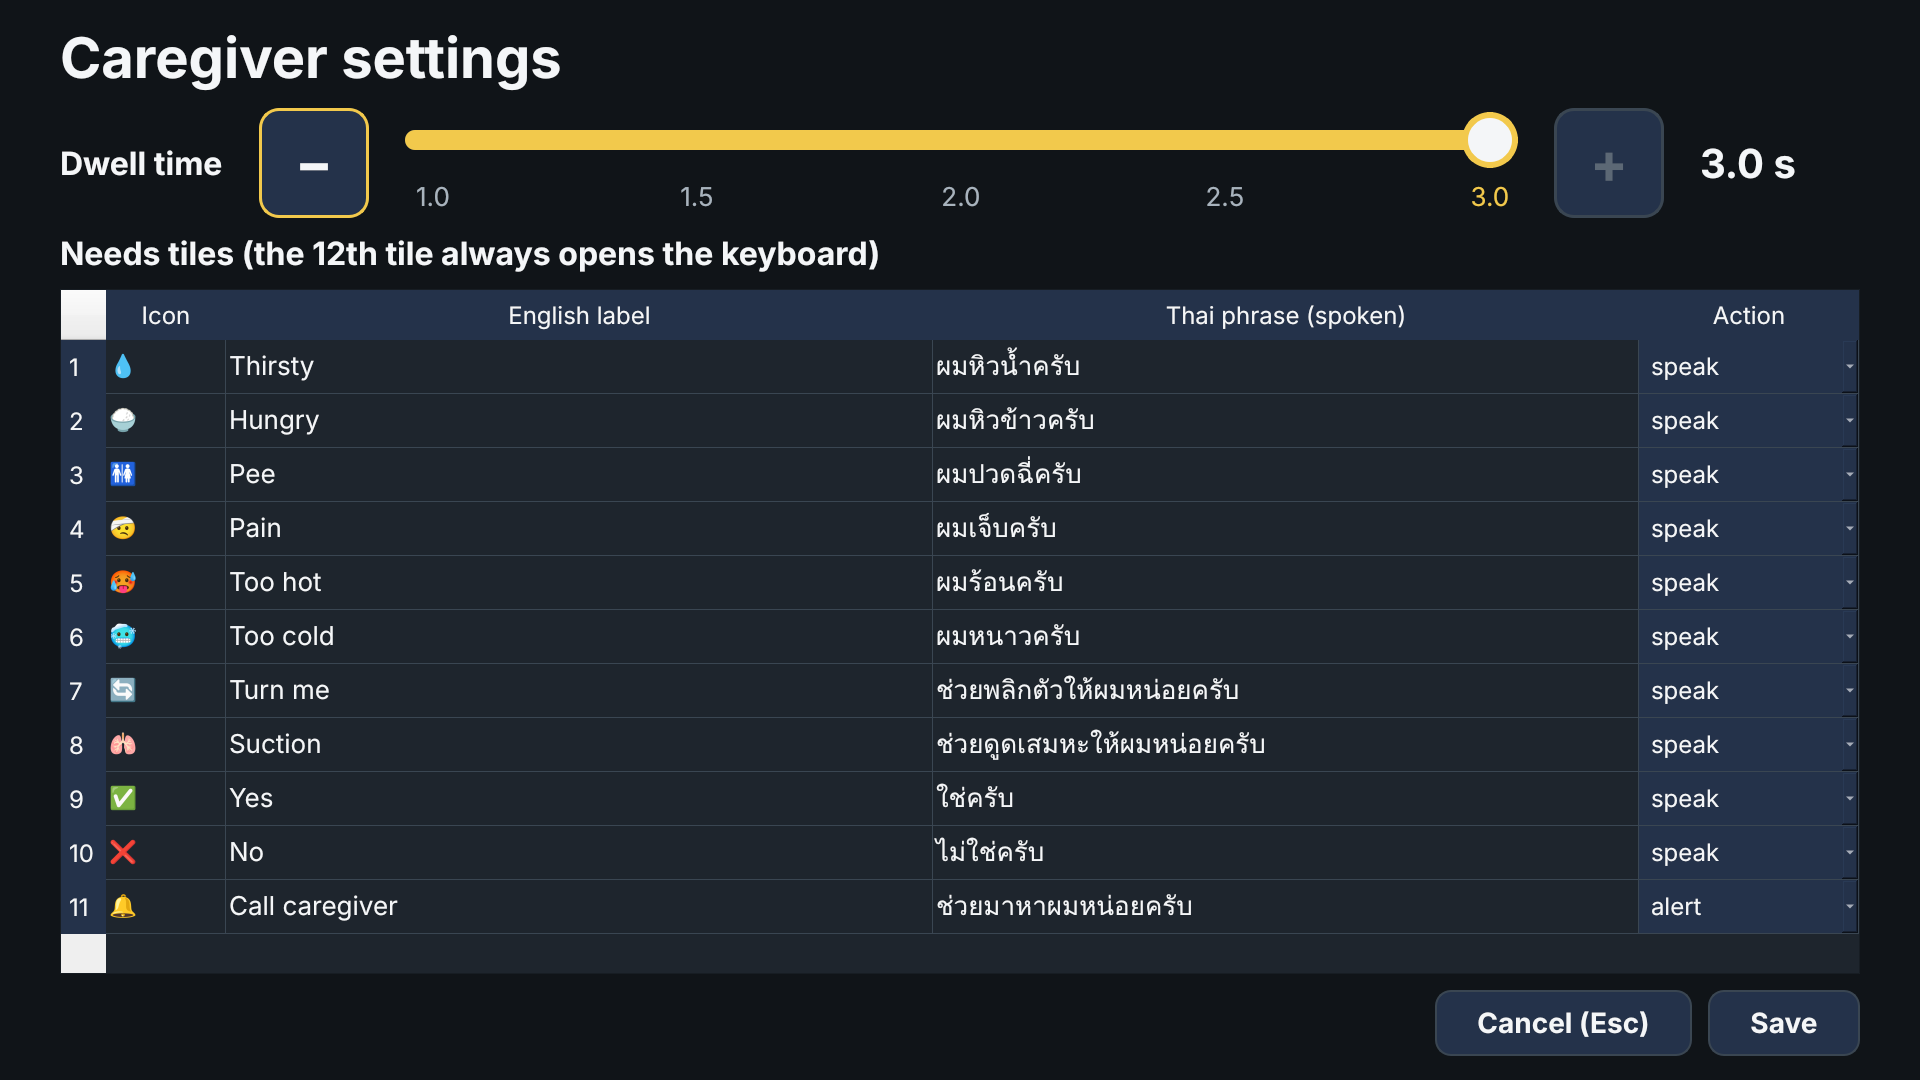
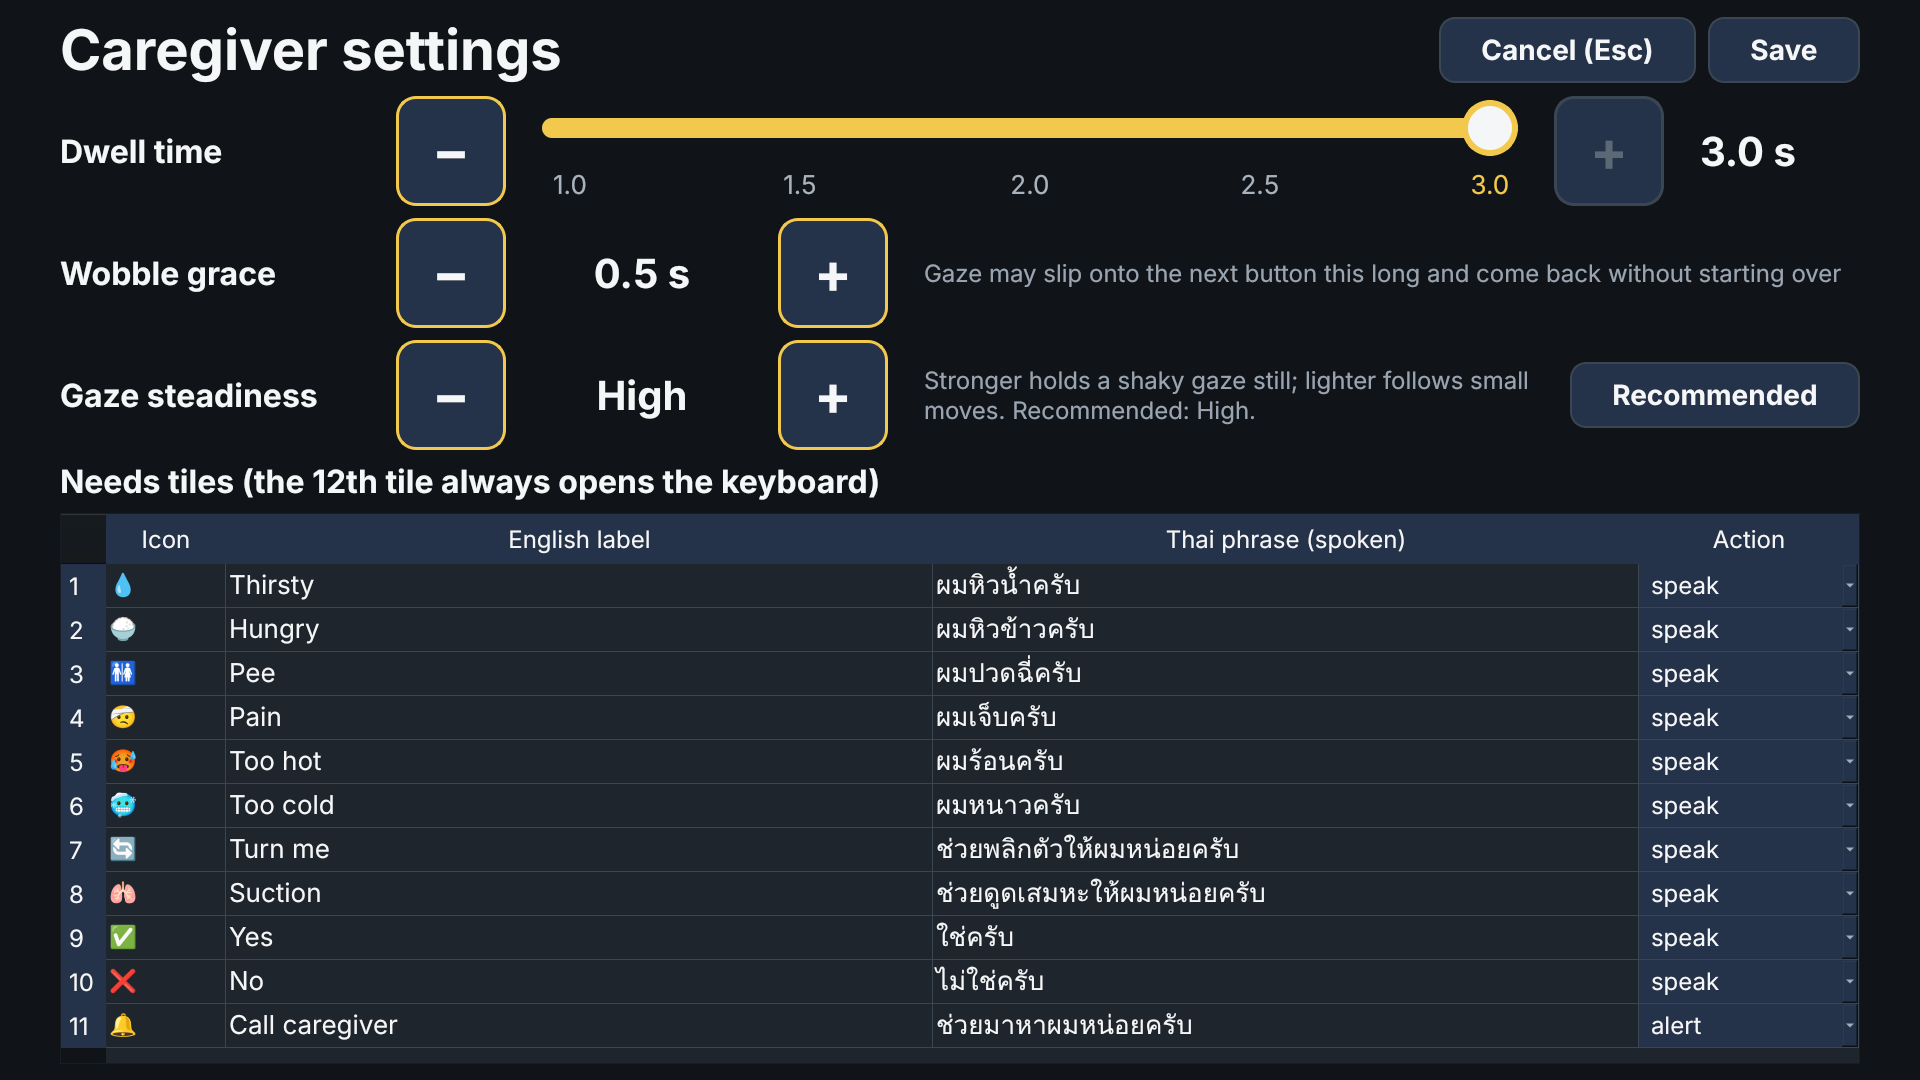
Let the caregiver set gaze steadiness on the Settings page
A Gaze steadiness row (Light to Strong) sets the fixation filter's radius
from 60 to 140 px, default High (120 px), with a Recommended button.
Save rebuilds the gaze filter so the change applies without a restart.
Cancel and Save move up beside the title so all Needs rows still fit.

Claude-Session: https://claude.ai/code/session_012QeYGAro3vcYXimiUTMWDw

diff --git a/commu_aid/ui/settings.py b/commu_aid/ui/settings.py
@@ -1,4 +1,4 @@
-"""Caregiver Settings page (F3): dwell time and the Needs tiles, saved to config.yaml."""
+"""Caregiver Settings page (F3): dwell time, gaze steadiness and the Needs tiles, saved to config.yaml."""
 
 from __future__ import annotations
 
@@ -24,11 +24,15 @@ from ..config import (
     DWELL_MIN_S,
     DWELL_STEP_S,
     NEEDS_TILE_COUNT,
+    STEADINESS_DEFAULT,
+    STEADINESS_NAMES,
+    STEADINESS_RADII_PX,
     WOBBLE_GRACE_MAX_S,
     AppConfig,
     NeedTile,
     clamp_dwell,
     clamp_wobble_grace,
+    steadiness_level,
 )
 from . import theme
 
@@ -52,6 +56,7 @@ QSlider::handle:horizontal { width: 44px; height: 44px; margin: -18px 0; border-
 
 SLIDER_HANDLE = 56  # px, QSlider::handle width plus its border above
 STEP_BUTTON = 110  # theme.MIN_TARGET
+LABEL_W = 300  # row labels share one width so the - / + buttons line up
 
 
 def _steps(seconds: float) -> int:
@@ -90,17 +95,28 @@ class SettingsPage(QWidget):
         self.setGeometry(0, 0, theme.CANVAS_W, theme.CANVAS_H)
 
         layout = QVBoxLayout(self)
-        layout.setContentsMargins(theme.MARGIN, 24, theme.MARGIN, 24)
-        layout.setSpacing(16)
+        layout.setContentsMargins(theme.MARGIN, 16, theme.MARGIN, 16)
+        layout.setSpacing(12)
 
+        # Cancel and Save share the title row, leaving room for all 11 Needs rows below the controls.
+        title_row = QHBoxLayout()
         title = QLabel("Caregiver settings")
         title.setFont(theme.font(56, bold=True))
-        layout.addWidget(title)
+        title_row.addWidget(title)
+        title_row.addStretch(1)
+        cancel = QPushButton("Cancel (Esc)")
+        cancel.clicked.connect(self.cancel)
+        save = QPushButton("Save")
+        save.clicked.connect(self.save)
+        title_row.addWidget(cancel)
+        title_row.addWidget(save)
+        layout.addLayout(title_row)
 
         dwell_row = QHBoxLayout()
         dwell_row.setSpacing(theme.GAP)
         dwell_label = QLabel("Dwell time")
         dwell_label.setFont(theme.font(32, bold=True))
+        dwell_label.setMinimumWidth(LABEL_W)
         self.dwell_value = QLabel()
         self.dwell_value.setFont(theme.font(40, bold=True))
         self.dwell_value.setMinimumWidth(160)
@@ -130,12 +146,13 @@ class SettingsPage(QWidget):
         wobble_row.setSpacing(theme.GAP)
         wobble_label = QLabel("Wobble grace")
         wobble_label.setFont(theme.font(32, bold=True))
+        wobble_label.setMinimumWidth(LABEL_W)
         self.wobble_steps = 0
         self.wobble_less = self._button("\u2212", lambda: self._set_wobble(self.wobble_steps - 1))
         self.wobble_more = self._button("+", lambda: self._set_wobble(self.wobble_steps + 1))
         self.wobble_value = QLabel()
         self.wobble_value.setFont(theme.font(40, bold=True))
-        self.wobble_value.setMinimumWidth(160)
+        self.wobble_value.setMinimumWidth(200)
         self.wobble_value.setAlignment(Qt.AlignCenter)
         wobble_hint = QLabel("Gaze may slip onto the next button this long and come back without starting over")
         wobble_hint.setFont(theme.font(24))
@@ -147,6 +164,35 @@ class SettingsPage(QWidget):
         wobble_row.addWidget(self.wobble_more)
         wobble_row.addWidget(wobble_hint, 1)
         layout.addLayout(wobble_row)
+
+        # Gaze steadiness: how far the gaze point may shake and still count as one spot
+        # (the fixation filter's radius). Five named levels instead of raw pixels.
+        steady_row = QHBoxLayout()
+        steady_row.setSpacing(theme.GAP)
+        steady_label = QLabel("Gaze steadiness")
+        steady_label.setFont(theme.font(32, bold=True))
+        steady_label.setMinimumWidth(LABEL_W)
+        self.steady_level = STEADINESS_DEFAULT
+        self.loaded_steady_level = STEADINESS_DEFAULT
+        self.steady_less = self._button("\u2212", lambda: self._set_steadiness(self.steady_level - 1))
+        self.steady_more = self._button("+", lambda: self._set_steadiness(self.steady_level + 1))
+        self.steady_value = QLabel()
+        self.steady_value.setFont(theme.font(40, bold=True))
+        self.steady_value.setMinimumWidth(200)
+        self.steady_value.setAlignment(Qt.AlignCenter)
+        self.steady_hint = QLabel()
+        self.steady_hint.setFont(theme.font(24))
+        self.steady_hint.setStyleSheet("color: #9aa5b1;")
+        self.steady_hint.setWordWrap(True)
+        self.steady_reset = QPushButton("Recommended")
+        self.steady_reset.clicked.connect(lambda: self._set_steadiness(STEADINESS_DEFAULT))
+        steady_row.addWidget(steady_label)
+        steady_row.addWidget(self.steady_less)
+        steady_row.addWidget(self.steady_value)
+        steady_row.addWidget(self.steady_more)
+        steady_row.addWidget(self.steady_hint, 1)
+        steady_row.addWidget(self.steady_reset)
+        layout.addLayout(steady_row)
 
         tiles_label = QLabel("Needs tiles (the 12th tile always opens the keyboard)")
         tiles_label.setFont(theme.font(32, bold=True))
@@ -161,23 +207,15 @@ class SettingsPage(QWidget):
         header.setSectionResizeMode(3, QHeaderView.Fixed)
         self.table.setColumnWidth(0, 120)
         self.table.setColumnWidth(3, 220)
-        self.table.verticalHeader().setDefaultSectionSize(46)  # all 11 rows fit under the two dwell rows
+        self.table.verticalHeader().setDefaultSectionSize(44)  # all 11 rows fit under the three control rows
         layout.addWidget(self.table, 1)
-
-        buttons = QHBoxLayout()
-        buttons.addStretch(1)
-        cancel = QPushButton("Cancel (Esc)")
-        cancel.clicked.connect(self.cancel)
-        save = QPushButton("Save")
-        save.clicked.connect(self.save)
-        buttons.addWidget(cancel)
-        buttons.addWidget(save)
-        layout.addLayout(buttons)
 
     def load(self) -> None:
         self.dwell_slider.setValue(_steps(self.cfg.dwell.dwell_time_s))
         self._show_dwell(self.dwell_slider.value())
         self._set_wobble(round(clamp_wobble_grace(self.cfg.dwell.wobble_grace_s) / DWELL_STEP_S))
+        self.loaded_steady_level = steadiness_level(self.cfg.gaze_filter.fixation_radius_px)
+        self._set_steadiness(self.loaded_steady_level)
         for row in range(NEEDS_TILE_COUNT):
             tile = self.cfg.needs[row] if row < len(self.cfg.needs) else NeedTile("", "")
             for col, value in enumerate((tile.icon, tile.label, tile.thai)):
@@ -190,6 +228,11 @@ class SettingsPage(QWidget):
     def save(self) -> None:
         self.cfg.dwell.dwell_time_s = clamp_dwell(self.dwell_slider.value() * DWELL_STEP_S)
         self.cfg.dwell.wobble_grace_s = clamp_wobble_grace(self.wobble_steps * DWELL_STEP_S)
+        if self.steady_level != self.loaded_steady_level:
+            # Only a change from the page writes the radius, so a hand-tuned value between levels
+            # survives a Save. Steadiness is the fixation filter's setting, so it switches to that.
+            self.cfg.gaze_filter.method = "fixation"
+            self.cfg.gaze_filter.fixation_radius_px = STEADINESS_RADII_PX[self.steady_level]
         needs = []
         for row in range(NEEDS_TILE_COUNT):
             icon, label, thai = (self._text(row, c) for c in range(3))
@@ -219,6 +262,19 @@ class SettingsPage(QWidget):
         self.wobble_value.setText(f"{seconds:.1f} s" if seconds else "Off")
         self.wobble_less.setEnabled(self.wobble_steps > 0)
         self.wobble_more.setEnabled(self.wobble_steps < top)
+
+    def _set_steadiness(self, level: int) -> None:
+        top = len(STEADINESS_RADII_PX) - 1
+        self.steady_level = max(0, min(top, level))
+        self.steady_value.setText(STEADINESS_NAMES[self.steady_level])
+        self.steady_less.setEnabled(self.steady_level > 0)
+        self.steady_more.setEnabled(self.steady_level < top)
+        self.steady_reset.setEnabled(self.steady_level != STEADINESS_DEFAULT)
+        hint = "Stronger holds a shaky gaze still; lighter follows small moves. Recommended: High."
+        if self.cfg.gaze_filter.method != "fixation" and self.steady_level == self.loaded_steady_level:
+            method = self.cfg.gaze_filter.method
+            hint = f"config.yaml uses the {method} filter; changing this switches to the steady one."
+        self.steady_hint.setText(hint)
 
     def _show_dwell(self, steps: int) -> None:
         self.dwell_value.setText(f"{steps * DWELL_STEP_S:.1f} s")

diff --git a/tests/test_app.py b/tests/test_app.py
@@ -240,6 +240,64 @@ def test_settings_wobble_grace_is_off_to_one_second(setup, tmp_path):
     assert "wobble_grace_s: 1.0" in (tmp_path / "config.yaml").read_text(encoding="utf-8")
 
 
+def test_settings_gaze_steadiness_sets_the_fixation_radius(setup, tmp_path):
+    from commu_aid.gaze.filters import FixationFilter
+
+    make = setup[0]
+    w = make()
+    w.cfg.path = tmp_path / "config.yaml"
+    w.open_settings()
+    s = w.settings
+    assert s.steady_value.text() == "High" and not s.steady_reset.isEnabled()
+    s.steady_more.click()
+    assert s.steady_value.text() == "Strong" and not s.steady_more.isEnabled()
+    for _ in range(5):
+        s.steady_less.click()
+    assert s.steady_value.text() == "Light" and not s.steady_less.isEnabled()
+    s.steady_more.click()
+    s.save()
+    assert isinstance(w.smoother, FixationFilter) and w.smoother.radius_px == 80
+    assert "fixation_radius_px: 80" in (tmp_path / "config.yaml").read_text(encoding="utf-8")
+    w.open_settings()
+    assert w.settings.steady_value.text() == "Low"
+    w.settings.steady_reset.click()
+    w.settings.save()
+    assert w.smoother.radius_px == 120
+
+
+def test_settings_keeps_a_hand_tuned_filter_unless_steadiness_changes(setup, tmp_path):
+    from commu_aid.gaze.filters import FixationFilter, OneEuroFilter
+
+    make = setup[0]
+    w = make()
+    w.cfg.path = tmp_path / "config.yaml"
+    w.cfg.gaze_filter.fixation_radius_px = 110
+    w.open_settings()
+    assert w.settings.steady_value.text() in ("Medium", "High")
+    w.settings.save()
+    assert w.cfg.gaze_filter.fixation_radius_px == 110
+
+    w.cfg.gaze_filter.method = "one_euro"
+    w.open_settings()
+    assert "one_euro" in w.settings.steady_hint.text()
+    w.settings.save()
+    assert isinstance(w.smoother, OneEuroFilter)
+    w.open_settings()
+    w.settings.steady_more.click()
+    w.settings.save()
+    assert w.cfg.gaze_filter.method == "fixation" and isinstance(w.smoother, FixationFilter)
+
+
+def test_settings_page_shows_every_needs_row(setup):
+    make = setup[0]
+    w = make()
+    w.open_settings()
+    table = w.settings.table
+    rows = sum(table.rowHeight(r) for r in range(table.rowCount()))
+    assert rows <= table.viewport().height()
+    assert not table.verticalScrollBar().isVisible()
+
+
 def test_wobble_onto_neighbour_key_keeps_progress(setup, app):
     make, clock, source, _, _ = setup
     w = make()

diff --git a/commu_aid/config.py b/commu_aid/config.py
@@ -24,6 +24,11 @@ class DwellConfig:
 
 
 GAZE_FILTER_METHODS = ("fixation", "one_euro", "average")
+# Steadiness levels on the Settings page: fixation radius for each, Light to Strong.
+# Buttons are 146 px apart, so the strongest stays below that.
+STEADINESS_RADII_PX = (60, 80, 100, 120, 140)
+STEADINESS_NAMES = ("Light", "Low", "Medium", "High", "Strong")
+STEADINESS_DEFAULT = 3  # High, 120 px
 
 
 @dataclass
@@ -181,3 +186,8 @@ def clamp_dwell(seconds: float) -> float:
 
 def clamp_wobble_grace(seconds: float) -> float:
     return max(0.0, min(WOBBLE_GRACE_MAX_S, float(seconds)))
+
+
+def steadiness_level(radius_px: float) -> int:
+    """Settings level whose fixation radius is nearest the given one."""
+    return min(range(len(STEADINESS_RADII_PX)), key=lambda i: abs(STEADINESS_RADII_PX[i] - float(radius_px)))

diff --git a/commu_aid/ui/main_window.py b/commu_aid/ui/main_window.py
@@ -423,6 +423,9 @@ class MainWindow(QGraphicsView):
     def _apply_settings(self) -> None:
         self.dwell.dwell_time_s = self.cfg.dwell.dwell_time_s
         self.dwell.wobble_grace_s = self.cfg.dwell.wobble_grace_s
+        c = self.cfg
+        # A new filter starts afresh, so the gaze point jumps straight to where the eyes are.
+        self.smoother = make_gaze_filter(c.gaze_filter, (c.display.width, c.display.height), c.dwell.blink_grace_s)
         self.needs_page.set_needs(self.cfg.needs)
         self.bar.show_message("Settings saved", note=f"Dwell time {self.cfg.dwell.dwell_time_s:.1f} s")
 

diff --git a/docs/plans/09-gaze-filter-settings.md b/docs/plans/09-gaze-filter-settings.md
@@ -1,53 +1,22 @@
-# Plan: gaze filter controls on the Settings page (item 9)
+# Gaze filter controls on the Settings page (item 9)
 
-Status: plan only, no code yet. Waiting for Ton to rank this against the other items.
+Ton wanted the caregiver to change the gaze noise filter from the Settings page (F3) instead of
+editing `config.yaml` by hand.
 
-## What Ton asked for
+## As built
 
-The current noise filter works well, but the caregiver should be able to change it from the
-Settings page (F3) instead of editing `config.yaml` by hand.
+- A **Gaze steadiness** row under Wobble grace, in the same style: big − / + buttons and the level
+  name between them, Light / Low / Medium / High / Strong. The levels set the fixation filter's
+  `fixation_radius_px` to 60 / 80 / 100 / 120 / 140 px; 140 stays under the 146 px between
+  button centres. High (120 px, today's default) is recommended, and a "Recommended" button
+  goes back to it.
+- Only the steady (fixation) filter is offered. Ton did not answer whether to show all three
+  filter types, so this follows the recommendation: one control, nothing raw for the caregiver.
+  `one_euro` and `average` still work from `config.yaml`; changing the level switches back to
+  `fixation`, and the hint says so when another filter is set.
+- A hand-tuned radius between levels (say 110 px) is kept on Save unless the level is changed.
+- Save rebuilds the filter at once, so a change needs no restart.
+- Cancel and Save moved up beside the title so all 11 Needs rows still fit at 1920x1080.
 
-## What exists today
-
-- `gaze_filter` section in `config.yaml` (PR #7): `method` is `fixation` (default), `one_euro`
-  or `average`, each with its own numbers. `fixation_radius_px` defaults to 120 and must stay
-  under 146 px (the distance between button centres).
-- `make_gaze_filter()` in `commu_aid/gaze/filters.py` builds the filter once, in
-  `MainWindow.__init__`. Saving Settings does not rebuild it, so a change today needs a restart.
-- The Settings page only has the dwell slider (big yellow slider, 110 px -/+ buttons, PR #11)
-  and the Needs tiles table.
-
-## Proposed change
-
-1. **Filter type**: three large toggle buttons in one row, same style as the dwell -/+ buttons:
-   - "Steady" = `fixation` (recommended, selected by default)
-   - "Smooth" = `one_euro`
-   - "Simple" = `average`
-2. **Steadiness**: one slider with -/+ buttons, styled like the dwell slider, with 5 steps from
-   "Light" to "Strong". Each step sets the main number of the chosen filter, so the caregiver
-   never sees raw parameters:
-   - Steady: `fixation_radius_px` 60 / 80 / 100 / 120 / 140 (120 = today's default)
-   - Smooth: `min_cutoff_hz` 2.0 / 1.0 / 0.5 / 0.3 / 0.15 (0.5 = default)
-   - Simple: `average_samples` 3 / 5 / 8 / 12 / 16 (5 = default)
-   A value from a hand-edited config snaps to the nearest step, as dwell does.
-3. **"Reset to recommended"** button: Steady, radius 120.
-4. **Apply on Save without restart**: `_apply_settings()` rebuilds `self.smoother` with
-   `make_gaze_filter()`, and the "Settings saved" note says which filter is on.
-5. **Room on the page**: the Needs table shrinks a little to fit the two new rows at 1920x1080.
-   If it gets too tight, Needs tiles move to a second Settings tab.
-
-Other numbers (`confirm_samples`, `hold_s`, `beta`, `d_cutoff_hz`) stay in `config.yaml` only.
-
-## Tests
-
-- Config round trip: each method and step survives Save and load.
-- Snapping: an off-step value loads to the nearest step; radius never goes above 140.
-- Main window: after Save, `smoother` is the new filter type with the new number.
-- Screenshot of the Settings page at 1920x1080 for Ton to check.
-
-## Questions for Ton
-
-- Are the three filter types worth showing, or only the Steadiness slider for the Steady filter?
-  (Simpler for the caregiver; recommended if the other two are never used.)
-- Would a small "try it" area on the Settings page, showing the gaze dot live, help the
-  caregiver judge a change before saving?
+The other filter numbers (`confirm_samples`, `hold_s`, the one_euro and average settings) stay in
+`config.yaml` only.

diff --git a/README.md b/README.md
@@ -23,7 +23,8 @@ in 0.5 s steps) to choose it. The app shows the English text and speaks it in Th
   turns off except one large **Resume** button at the top centre, which needs a longer look
   (4 s by default, `pause.resume_dwell_s`) and fills a ring as it counts. F4 pauses and resumes too.
 - **Settings (F3)** let the caregiver change the dwell time (1 to 3 s, in 0.5 s steps, with a large
-  slider and big − / + buttons), the wobble grace (Off, 0.5 s or 1.0 s) and the Needs tiles.
+  slider and big − / + buttons), the wobble grace (Off, 0.5 s or 1.0 s), the gaze steadiness
+  (Light to Strong, default High) and the Needs tiles. Changes apply on Save, without a restart.
 - **Wobble grace**: if the gaze slips onto a neighbouring button and comes back within 0.5 s
   (`dwell.wobble_grace_s`), the first button keeps its progress instead of starting over.
   If the gaze stays on the new button, its dwell counts from when the gaze arrived. Resume on
@@ -232,7 +233,7 @@ Caregiver keys:
 | Key | Action |
 | --- | --- |
 | F2 | Calibrate again |
-| F3 | Settings (dwell time, wobble grace, Needs tiles) |
+| F3 | Settings (dwell time, wobble grace, gaze steadiness, Needs tiles) |
 | F4 | Pause or resume |
 | Ctrl+G (Cmd+G on a Mac) | Show or hide the gaze dot |
 | F11 | Full screen on or off |
@@ -256,6 +257,9 @@ Everything is in [`config.yaml`](config.yaml):
 
 - `dwell`: dwell time, blink grace, cooldown, wobble grace.
 - `gaze_filter`: how the gaze point is steadied (see [If the gaze point is shaky](#if-the-gaze-point-is-shaky)).
+  The Settings page's Gaze steadiness levels set `fixation_radius_px` to 60, 80, 100, 120 or 140 px
+  (Light to Strong) and switch `method` to `fixation`; a value set here by hand is kept until
+  the level is changed on the page.
 - `display`: edge margins and snapping (see [If gaze misses near the screen edges](#if-gaze-misses-near-the-screen-edges)).
 - `calibration`: for example `auto_accept_max_error_px` to accept a good calibration without
   pressing Enter, `redo_point_px` to set when a calibration point is collected again, and
@@ -319,7 +323,7 @@ Tobii Pro Spark ─▶ Gaze source ─▶ Gaze filter ─▶ Targets ─▶ Dwel
 | `commu_aid/ui/gaze_dot.py` | Gaze dot overlay (Ctrl+G) |
 | `commu_aid/ui/pause_screen.py` | Rest screen with the long-dwell Resume button |
 | `commu_aid/ui/calibration.py` | Start-up calibration: position check with face outline, live gaze, result plots |
-| `commu_aid/ui/settings.py` | Caregiver settings (dwell slider in 0.5 s steps, Needs tiles) |
+| `commu_aid/ui/settings.py` | Caregiver settings (dwell slider in 0.5 s steps, wobble grace, gaze steadiness, Needs tiles) |
 | `commu_aid/predict.py` | Offline word prediction (10,000 common words, care words, learning) |
 | `commu_aid/data/` | Word lists for prediction (`english_words.txt`, `care_words.txt`) |
 | `commu_aid/speech.py` | Offline text-to-speech (`say` on macOS, pyttsx3 elsewhere) |
